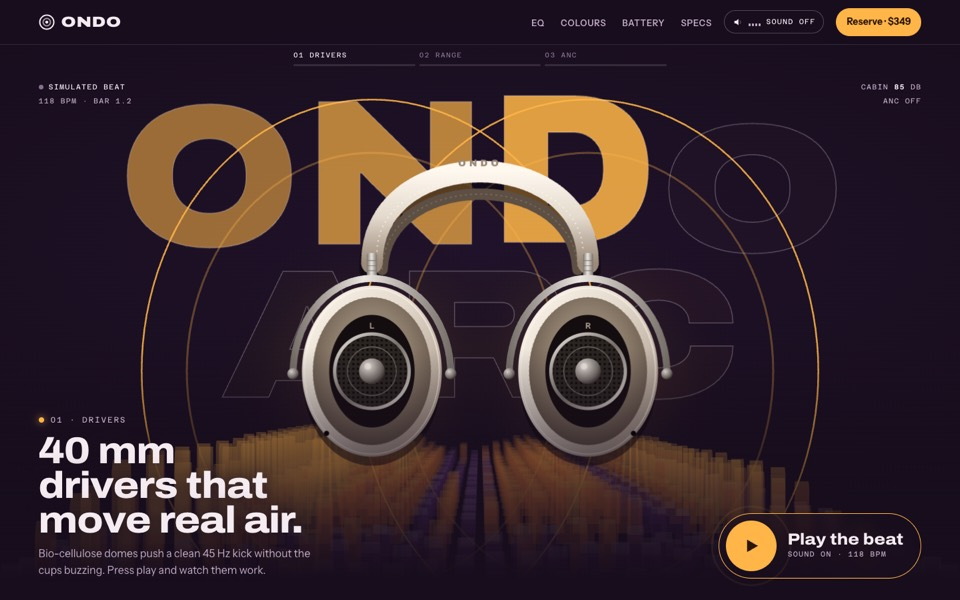
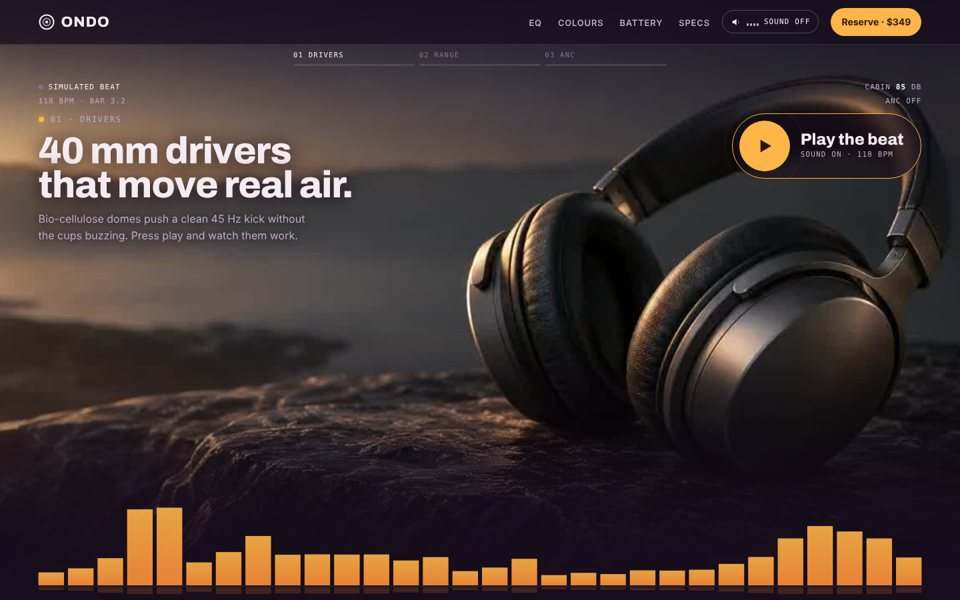
Ondo redesigned v5: the real headphones come apart over a live analyser running along the floor
The drawn headphones, kicking letters and 3D field are gone. The headphones (the brand's
video or photos, or the design's take) open up to the drivers as you scroll, a row of
amber spectrum bars along the bottom moving to the beat (the real audio once played), the
ANC chapter turning them mint and flat. Colourways show a colour card. EQ, battery and
specs stay.

Claude-Session: https://claude.ai/code/session_0133g3z4wqTvWj4LLKkZ92ba

diff --git a/design-packages/design/ondo/template.html b/design-packages/design/ondo/template.html
@@ -1,10 +1,14 @@
 <!doctype html><html><head><meta charset=utf8><meta name=viewport content="width=device-width,initial-scale=1,viewport-fit=cover"><style>:root{color-scheme:light;box-sizing:border-box;padding-top:env(safe-area-inset-top,0px);padding-bottom:env(safe-area-inset-bottom,0px)}html{scroll-padding-top:env(safe-area-inset-top,0px)}body{margin:0;padding:0;font:14px -apple-system,BlinkMacSystemFont,sans-serif;background:#fff;color:#000}img{max-width:100%}[hidden]:not([hidden=until-found i]){display:none!important}</style></head><body>
+<meta name="description" content="{{hero.caps.0.text|attr}}">
+<script>document.documentElement.classList.add('js');setTimeout(function(){if(!window.__ondo)document.documentElement.classList.remove('js')},3500)</script>
 <title>{{business.name}}</title>
 <link rel="preconnect" href="https://fonts.googleapis.com">
 <link rel="preconnect" href="https://fonts.gstatic.com" crossorigin>
 <link rel="stylesheet" href="https://fonts.googleapis.com/css2?family=Archivo:wdth,wght@62..125,300..900&family=Instrument+Sans:wdth,wght@75..100,400..700&family=Azeret+Mono:wght@400;500;600&display=swap">
 <style>
-/* Layout: a listening room at night. Velvet-plum walls, a VU-amber signal colour for the music,
+/* Layout, v5: the real headphones (the brand's video or photos, or the design's own take) come apart as you scroll,
+   a live analyser running along the floor of the screen to the beat. A listening room at night: velvet-plum walls,
+   a VU-amber signal colour for the music,
    a cool mint for the anti-noise wave, coral for noise. The hero is a pinned live analyser:
    the headphones play a synthesized beat, then a 3D spectrum field, then noise cancelling.
    Deliberately one dark look, like a studio with the lights down. */
@@ -60,19 +64,15 @@ h2 { font-size: clamp(40px, 6.2vw, 96px); }
 @media (max-width: 860px) { .nav ul { display: none; } .snd { margin-left: auto; } }
 @media (max-width: 420px) { .snd .lbl { display: none; } .logo { font-size: 20px; } .nav { gap: 10px; } .cta { padding: 9px 13px; font-size: 13px; } }
 
-/* ---------- hero stage ---------- */
-.hero { height: 430vh; position: relative; }
-.stage { position: sticky; top: 0; height: 100svh; overflow: hidden; background:
-  radial-gradient(120% 70% at 50% 40%, var(--room-2) 0%, var(--room) 70%); }
-#fx { position: absolute; inset: 0; width: 100%; height: 100%; display: block; }
-.bigtype { position: absolute; left: 0; right: 0; top: 44%; transform: translateY(-50%); display: flex; justify-content: center; gap: .02em; flex-wrap: wrap; row-gap: 0;
-  font-family: var(--display); font-weight: 900; font-stretch: 125%; font-size: clamp(120px, 19vw, 300px); line-height: .8; letter-spacing: -.01em; color: transparent;
-  -webkit-text-stroke: 1.5px var(--line-2); pointer-events: none; user-select: none; white-space: nowrap; }
-.bigtype span { display: inline-block; transform-origin: 50% 100%; will-change: transform; }
-.bigtype .brk { flex-basis: 100%; height: 0; }
-.hp-wrap { position: absolute; left: 0; top: 0; width: min(104svh * .64, 46vw, 640px); will-change: transform; transform: translate(50vw, 46svh) translate(-50%, -50%); }
-.hp-wrap svg { width: 100%; height: auto; display: block; overflow: visible; }
-
+/* ---------- hero stage: the real headphones come apart, the analyser runs along the floor of the screen ---------- */
+.hero { position: relative; }
+.stage { position: relative; height: min(100svh, 960px); min-height: 640px; overflow: hidden; background: var(--room); }
+.js:not(.flat) .hero { height: 460vh; }
+.js:not(.flat) .stage { position: sticky; top: 0; height: 100svh; min-height: 0; }
+.stage .poster, #film, #fx { position: absolute; inset: 0; width: 100%; height: 100%; display: block; }
+.stage .poster { object-fit: cover; }
+.tint { position: absolute; inset: 0; pointer-events: none; background: linear-gradient(180deg, color-mix(in srgb, var(--room) 70%, transparent) 0%, transparent 30%, transparent 55%, color-mix(in srgb, var(--room) 92%, transparent) 100%); }
+#fx { z-index: 3; pointer-events: none; }
 .rail { position: absolute; z-index: 5; left: 50%; transform: translateX(-50%); top: calc(env(safe-area-inset-top, 0px) + 74px); display: flex; gap: 6px; width: min(560px, calc(100% - 2 * var(--gutter))); }
 .rail div { flex: 1; min-width: 0; display: grid; gap: 6px; font-family: var(--mono); font-size: 10.5px; letter-spacing: .12em; text-transform: uppercase; color: var(--faint); transition: color .3s; }
 .rail div.on { color: var(--ink); }
@@ -87,15 +87,15 @@ h2 { font-size: clamp(40px, 6.2vw, 96px); }
 .hud .live.on i { background: var(--amber); box-shadow: 0 0 10px var(--amber); }
 .hud .db b { color: var(--ink); font-weight: 600; }
 
-.caption { position: absolute; z-index: 6; left: var(--gutter); bottom: calc(env(safe-area-inset-bottom, 0px) + 32px); width: min(470px, calc(100% - 2 * var(--gutter))); }
+.caption { position: absolute; z-index: 6; left: var(--gutter); top: calc(env(safe-area-inset-top, 0px) + 170px); width: min(520px, calc(100% - 2 * var(--gutter))); }
 .cap { display: grid; gap: 12px; transition: opacity .3s var(--out), transform .5s var(--out); }
-.cap + .cap { position: absolute; left: 0; bottom: 0; width: 100%; }
+.cap + .cap { position: absolute; left: 0; top: 0; width: 100%; }
 .cap:not(.on) { opacity: 0; transform: translateY(14px); pointer-events: none; }
 .cap h2 { font-size: clamp(34px, 3.9vw, 60px); text-shadow: 0 2px 30px var(--room); }
 .cap p { color: var(--dim); max-width: 40ch; font-size: 16px; text-shadow: 0 1px 14px var(--room); }
-.scrim { position: absolute; z-index: 4; left: 0; right: 0; bottom: 0; height: 42%; pointer-events: none; background: linear-gradient(to top, var(--room) 8%, color-mix(in srgb, var(--room) 70%, transparent) 45%, transparent); }
+.scrim { position: absolute; z-index: 2; left: 0; right: 0; bottom: 0; height: 30%; pointer-events: none; background: linear-gradient(to top, var(--room) 8%, color-mix(in srgb, var(--room) 70%, transparent) 45%, transparent); }
 
-.play { position: absolute; z-index: 7; right: var(--gutter); bottom: calc(env(safe-area-inset-bottom, 0px) + 32px); display: flex; align-items: center; gap: 16px; padding: 10px 26px 10px 10px; border-radius: 999px; cursor: pointer;
+.play { position: absolute; z-index: 7; right: var(--gutter); top: calc(env(safe-area-inset-top, 0px) + 170px); display: flex; align-items: center; gap: 16px; padding: 10px 26px 10px 10px; border-radius: 999px; cursor: pointer;
   background: color-mix(in srgb, var(--room) 55%, transparent); border: 1.5px solid var(--amber); backdrop-filter: blur(10px); -webkit-backdrop-filter: blur(10px); text-align: left; transition: transform .4s var(--spring); }
 .play:hover { transform: scale(1.03); }
 .play .disc { position: relative; width: 76px; height: 76px; border-radius: 50%; background: var(--amber); display: grid; place-items: center; flex: none; }
@@ -111,7 +111,7 @@ h2 { font-size: clamp(40px, 6.2vw, 96px); }
 .play .t span { font-family: var(--mono); font-size: 11px; letter-spacing: .1em; text-transform: uppercase; color: var(--dim); }
 
 /* ANC panel inside the stage */
-.anc { position: absolute; z-index: 5; left: 52%; right: var(--gutter); top: 25%; bottom: 23%; display: grid; grid-template-rows: auto 1fr 1fr 1fr auto; gap: 8px; padding: 18px 20px; border: 1px solid var(--line-2); border-radius: 18px;
+.anc { position: absolute; z-index: 5; left: 58%; right: var(--gutter); top: 30%; bottom: 30%; display: grid; grid-template-rows: auto 1fr 1fr 1fr auto; gap: 8px; padding: 18px 20px; border: 1px solid var(--line-2); border-radius: 18px;
   background: color-mix(in srgb, var(--room) 72%, transparent); backdrop-filter: blur(8px); -webkit-backdrop-filter: blur(8px); opacity: 0; transform: translateY(30px); pointer-events: none; }
 .anc .top { display: flex; justify-content: space-between; align-items: baseline; gap: 10px; font-family: var(--mono); font-size: 11px; letter-spacing: .12em; text-transform: uppercase; color: var(--dim); }
 .anc .top b { color: var(--anti); font-weight: 600; }
@@ -133,24 +133,30 @@ h2 { font-size: clamp(40px, 6.2vw, 96px); }
 .leds .scale { display: flex; justify-content: space-between; font-family: var(--mono); font-size: 10px; color: var(--faint); }
 
 @media (max-width: 760px) {
-  .hp-wrap { width: min(86vw, 52svh); }
-  .bigtype { top: 37%; font-size: 31vw; line-height: .78; width: 100%; }
   .rail { top: calc(env(safe-area-inset-top, 0px) + 66px); }
   .hud { top: calc(env(safe-area-inset-top, 0px) + 104px); font-size: 10px; }
-  .caption { bottom: calc(env(safe-area-inset-bottom, 0px) + 112px); }
+  .caption { top: auto; bottom: calc(env(safe-area-inset-bottom, 0px) + 150px); }
   .cap { gap: 8px; }
   .cap h2 { font-size: clamp(30px, 8.6vw, 40px); }
   .cap p { font-size: 15px; }
-  .play { left: var(--gutter); right: var(--gutter); bottom: calc(env(safe-area-inset-bottom, 0px) + 20px); padding: 8px 18px 8px 8px; gap: 14px; }
+  .play { left: var(--gutter); right: var(--gutter); top: auto; bottom: calc(env(safe-area-inset-bottom, 0px) + 20px); padding: 8px 18px 8px 8px; gap: 14px; }
   .play .disc { width: 64px; height: 64px; }
   .play .t b { font-size: 21px; }
-  .anc { left: var(--gutter); right: var(--gutter); top: 33%; bottom: auto; height: 38%; padding: 12px 14px; gap: 4px; grid-template-rows: auto 1fr 1fr 1fr auto; }
+  .anc { left: var(--gutter); right: var(--gutter); top: 18%; bottom: auto; height: 34%; padding: 12px 14px; gap: 4px; grid-template-rows: auto 1fr 1fr 1fr auto; }
   .lane { min-height: 0; font-size: 10px; }
   .meter { gap: 12px; padding-top: 6px; }
   .meter .num { font-size: 40px; }
   .leds .row { height: 12px; gap: 2px; }
   .stage[data-stage="2"] .cap.on p { display: none; }
 }
+
+.chipcard { position: relative; z-index: 2; display: grid; grid-template-columns: repeat(4, minmax(0, 1fr)); width: min(100%, 620px); aspect-ratio: 4 / 3; margin: auto; box-shadow: 0 30px 60px -30px rgba(0,0,0,.6), 0 0 0 1px var(--line); border-radius: 10px; overflow: hidden; }
+.chipcard div { background: var(--c); display: flex; flex-direction: column; justify-content: flex-end; gap: 3px; padding: 12px; font-family: var(--mono); font-size: 10.5px; letter-spacing: .06em; text-transform: uppercase; color: var(--t); transition: background-color .6s var(--out); }
+.chipcard div b { font-family: var(--display); font-size: 17px; letter-spacing: 0; text-transform: none; }
+.split .w { display: inline-block; overflow: hidden; vertical-align: top; padding-bottom: .06em; }
+.split .w > i { display: inline-block; font-style: normal; animation: rise .9s var(--out) both; }
+@keyframes rise { from { transform: translateY(108%); } }
+.js:not(.flat) [data-rv]:not(.in) { opacity: 0; transform: translateY(26px); }
 
 /* ---------- shared section ---------- */
 .sec { position: relative; padding-block: clamp(84px, 11vw, 160px); padding-inline: var(--gutter); border-top: 1px solid var(--line); }
@@ -294,10 +300,11 @@ footer { padding: clamp(60px, 8vw, 110px) var(--gutter) calc(env(safe-area-inset
 <main>
 <section class="hero" id="top" aria-label="{{$.fullName|attr}} live analyser">
   <div class="stage" id="stage" data-stage="0">
+{{#if $.film.poster}}    <img class="poster" src="{{$.film.poster|attr}}" alt="" aria-hidden="true">
+{{/if}}    <canvas id="film" role="img" aria-label="{{$.heroAlt|attr}}"></canvas>
+    <div class="tint" aria-hidden="true"></div>
     <canvas id="fx" aria-hidden="true"></canvas>
     <h1 class="sr">{{$.fullName}} {{product.kind}}</h1>
-    <div class="bigtype" id="bigtype" aria-hidden="true">{{$.bigtype|raw}}</div>
-    <div class="hp-wrap" id="hpWrap"></div>
 
     <div class="rail" aria-hidden="true">
       <div class="on"><span>01 Drivers</span><i><b></b></i></div>
@@ -391,8 +398,7 @@ footer { padding: clamp(60px, 8vw, 110px) var(--gutter) calc(env(safe-area-inset
 <section class="sec cw" id="colours" aria-labelledby="cwTitle">
   <div class="cw-name" id="cwName" aria-hidden="true">{{colourways.0.name|upper}}</div>
   <div class="cw-stage" id="cwStage">
-    <div class="cw-plinth"></div>
-    <div class="cw-hp" id="cwHp"></div>
+    <div class="chipcard" id="chipcard" role="img" aria-label="The colours of {{colourways.0.name|attr}}"></div>
   </div>
   <div class="cw-side">
     <div class="sec-head">
@@ -536,12 +542,7 @@ footer { padding: clamp(60px, 8vw, 110px) var(--gutter) calc(env(safe-area-inset
     ${cup(p, 150, 'L')}${cup(p, 490, 'R')}
   </svg>`;
   }
-  const hpWrap = $('#hpWrap');
-  hpWrap.innerHTML = hpSVG('h', {{$.heroAlt|js}});
-  $('#cwHp').innerHTML = hpSVG('c', {{$.cwAlt|js}});
-  const heroSVG = hpWrap.querySelector('svg');
-  const cups = [...hpWrap.querySelectorAll('.cup')], drvs = [...hpWrap.querySelectorAll('.drv')], leds = [...hpWrap.querySelectorAll('.led')];
-  const CUPX = [150, 490], CUPY = 392;
+  /* (the hero is the film now; the drawing is gone) */
 
   /* ================= colourways ================= */
   const COLOURS = [
@@ -556,9 +557,14 @@ footer { padding: clamp(60px, 8vw, 110px) var(--gutter) calc(env(safe-area-inset
     swWrap.appendChild(b);
     const o = document.createElement('option'); o.value = c.id; o.textContent = c.name; rsColour.appendChild(o);
   });
+  const chipcard = $('#chipcard'), PARTS = [['shell', 'Shell'], ['hi', 'Shell, light'], ['lo', 'Shell, deep'], ['pad', 'Cushion'], ['padHi', 'Cushion, light'], ['metal', 'Metal'], ['metalLo', 'Metal, deep'], ['label', 'Label']];
+  const inkOn = h => { const m = /^#?([0-9a-f]{6})$/i.exec(h || ''); if (!m) return '#f5ecf2'; const n = parseInt(m[1], 16), l = (.2126 * (n >> 16) + .7152 * (n >> 8 & 255) + .0722 * (n & 255)) / 255; return l > .55 ? '#170d1c' : '#f5ecf2'; };
+  PARTS.forEach(([k, label]) => { const d = document.createElement('div'); d.dataset.k = k; d.innerHTML = `<b>${label}</b><span></span>`; chipcard.appendChild(d); });
   function setColour(i) {
     const c = COLOURS[i], root = document.documentElement.style;
     for (const k in c.v) root.setProperty('--hp-' + k, c.v[k]);
+    chipcard.querySelectorAll('div').forEach(d => { const v = c.v[d.dataset.k]; d.style.setProperty('--c', v); d.style.setProperty('--t', inkOn(v)); d.querySelector('span').textContent = String(v || '').toUpperCase(); });
+    chipcard.setAttribute('aria-label', 'The colours of ' + c.name);
     $$('.sw').forEach((b, j) => b.setAttribute('aria-checked', j === i ? 'true' : 'false'));
     $('#cwName').textContent = c.name.toUpperCase();
     rsColour.value = c.id;
@@ -571,17 +577,6 @@ footer { padding: clamp(60px, 8vw, 110px) var(--gutter) calc(env(safe-area-inset
     setColour(n); $$('.sw')[n].focus();
   });
   rsColour.addEventListener('change', () => setColour(COLOURS.findIndex(c => c.id === rsColour.value)));
-  // gentle 3D tilt on the colourway stage
-  const cwStage = $('#cwStage'), cwHp = $('#cwHp');
-  if (!RM) {
-    cwStage.addEventListener('pointermove', e => {
-      const r = cwStage.getBoundingClientRect();
-      const x = (e.clientX - r.left) / r.width - .5, y = (e.clientY - r.top) / r.height - .5;
-      cwHp.style.transform = `rotateY(${x * 22}deg) rotateX(${-y * 14}deg)`;
-    });
-    cwStage.addEventListener('pointerleave', () => cwHp.style.transform = '');
-  }
-
   /* ================= EQ state ================= */
   const BANDS = [
     { name: 'Bass', type: 'lowshelf', f: 110, g: 3, min: 40, max: 250 },
@@ -816,8 +811,14 @@ footer { padding: clamp(60px, 8vw, 110px) var(--gutter) calc(env(safe-area-inset
   const specAt = (f, j) => (AU.on ? liveAt(f) : simAt(f, j));
 
   /* ================= hero stage ================= */
+  const STILL = /[?&]still\b/.test(location.search), FLAT = RM || STILL;
+  if (FLAT) document.documentElement.classList.add('flat');
+  {{$.film.runtime|raw}}
+  const film = SRFilm($('#film'), {{$.film.json|raw}}, { flat: FLAT, fy: .45 });
+  let inFrame = false; try { inFrame = window.self !== window.top; } catch (e) { inFrame = true; }
+  let AUTO = inFrame && scrollY < 1 && !FLAT;
+  if (AUTO) addEventListener('scroll', () => { if (AUTO && scrollY >= 1) { AUTO = false; film.poke(); } }, { passive: true });
   const stage = $('#stage'), hero = $('#top'), fx = $('#fx'), g = fx.getContext('2d');
-  const letters = $$('#bigtype span');
   const caps = $$('.cap'), railDivs = $$('.rail > div'), railBars = $$('.rail i b');
   const ancEl = $('#anc'), lanes = $$('.lane'), ledRow = $('#leds');
   for (let i = 0; i < 24; i++) { const li = document.createElement('i'); const db = 20 + (i + .5) * (80 / 24); if (db > 70) li.className = 'hot'; else if (db > 45) li.className = 'mid'; ledRow.appendChild(li); }
@@ -834,7 +835,7 @@ footer { padding: clamp(60px, 8vw, 110px) var(--gutter) calc(env(safe-area-inset
   function resize() {
     DPR = Math.min(devicePixelRatio || 1, matchMedia('(pointer:coarse)').matches?1.5:2);
     const r = stage.getBoundingClientRect(); W = r.width; H = r.height;
-    fx.width = Math.round(W * DPR); fx.height = Math.round(H * DPR);
+    fx.width = Math.round(W * DPR); fx.height = Math.round(H * DPR); film.size();
     eqResize();
   }
   addEventListener('resize', resize);
@@ -954,6 +955,19 @@ footer { padding: clamp(60px, 8vw, 110px) var(--gutter) calc(env(safe-area-inset
     });
   }
 
+  function drawBars(level, ancIn, cancel) {
+    const n = COLS, gap = W < 760 ? 3 : 6, x0 = W < 760 ? 16 : Math.max(16, W * .04), bw = (W - 2 * x0 - gap * (n - 1)) / n, base = H - (W < 760 ? 12 : 22), maxH = H * (W < 760 ? .14 : .22);
+    const squash = 1 - cancel * .85 * ancIn;
+    for (let c = 0; c < n; c++) {
+      const v = cur[c] * squash, h = Math.max(3, v * maxH), x = x0 + c * (bw + gap);
+      const gr = g.createLinearGradient(0, base - h, 0, base);
+      gr.addColorStop(0, ancIn > .5 ? C.anti : C.amber); gr.addColorStop(1, ancIn > .5 ? 'rgba(127,227,208,.25)' : C.amber2);
+      g.fillStyle = gr; g.globalAlpha = .9; g.fillRect(x, base - h, bw, h);
+      g.globalAlpha = .18; g.fillRect(x, base + 3, bw, Math.min(10, h * .2));
+    }
+    g.globalAlpha = 1;
+    g.fillStyle = C.line; g.fillRect(x0, base + 1, W - 2 * x0, 1);
+  }
   function setStage(n) {
     if (n === stageNo) return; stageNo = n;
     stage.dataset.stage = n;
@@ -1000,25 +1014,9 @@ footer { padding: clamp(60px, 8vw, 110px) var(--gutter) calc(env(safe-area-inset
     sndBars.forEach((b, i) => b.style.height = (AU.on ? 3 + cur[i * 7 + 1] * 9 : 4) + 'px');
 
     if (heroVisible) {
-      const L = W < 760 ? 'm' : 'd';
-      const [kx, ky, ks] = kfAt(KF[L], p), F = kfAt(FF[L], p);
       const ancIn = ss(.57, .66, p), cancel = ss(.68, .94, p);
       const level = RM ? .2 : clamp(Math.max(vis.kick * .85, lowE * .9));
-      const breathe = RM ? 0 : Math.sin(nowS * 1.3) * .01;
-      hpWrap.style.transform = `translate(${kx * W}px, ${ky * H}px) translate(-50%, -50%) scale(${ks * (1 + breathe + level * .025)})`;
-      // ear cups pump with the low end, drivers push out harder
-      cups.forEach((cp, i) => { const s = 1 + level * .045; cp.setAttribute('transform', `translate(${CUPX[i]} ${CUPY}) scale(${s}) translate(${-CUPX[i]} ${-CUPY})`); });
-      drvs.forEach((d, i) => { const s = 1 + level * .11; d.setAttribute('transform', `translate(${CUPX[i]} ${CUPY}) scale(${s}) translate(${-CUPX[i]} ${-CUPY})`); });
-      leds.forEach(l => l.style.fill = ancIn > .5 ? C.anti : '');
-      // kicking type
-      letters.forEach((el, i) => {
-        if (RM) return;
-        let a = nowS - vis.kickAt - i * .024; if (a < 0) a += BEAT;
-        const e = Math.exp(-a / .11);
-        el.style.transform = `translateY(${-e * 5}%) scale(${1 - e * .03}, ${1 + e * .17})`;
-        el.style.color = `color-mix(in srgb, ${C.amber} ${Math.round(e * 88 * (1 - ancIn * .7))}%, transparent)`;
-      });
-      $('#bigtype').style.opacity = 1 - ancIn * .55 - eio(seg(p, .27, .42)) * .25;
+      film.draw(FLAT ? 1 : AUTO ? (nowS / Math.max(4, film.seconds())) % 1 : p, nowS);
       // stage + rail
       setStage(p < .3 ? 0 : p < .58 ? 1 : 2);
       railBars[0].style.width = seg(p, 0, .3) * 100 + '%';
@@ -1041,13 +1039,10 @@ footer { padding: clamp(60px, 8vw, 110px) var(--gutter) calc(env(safe-area-inset
       }
       if (AU.on && AU.noiseGain) AU.noiseGain.gain.setTargetAtTime(ancIn * (1 - cancel) * .42, AU.ctx.currentTime, .06);
 
-      // draw
+      // draw: the analyser along the floor of the screen, then the anti-noise lanes
       g.setTransform(DPR, 0, 0, DPR, 0, 0);
       g.clearRect(0, 0, W, H);
-      const dp = driverPos();
-      drawGlow(dp, level * (1 - ancIn * .5));
-      drawField(F, nowS);
-      drawRings(nowS, dp, ancIn);
+      drawBars(level, ancIn, cancel);
       drawANC(nowS, ancIn, cancel);
     } else if (AU.on && AU.noiseGain) AU.noiseGain.gain.setTargetAtTime(0, AU.ctx.currentTime, .06);
     requestAnimationFrame(frame);
@@ -1191,6 +1186,7 @@ footer { padding: clamp(60px, 8vw, 110px) var(--gutter) calc(env(safe-area-inset
 
   /* ================= boot ================= */
   setColour(0); calcBattery(); resize(); syncEQ(); syncSoundUI();
+  window.__ondo = 1;
   // prefill the spectrum history so the field is never empty in the first frame
   for (let r = 0; r < ROWS; r++) { fireVis(r * 2, 0); for (let c = 0; c < COLS; c++) hist[r][c] = simAt(colF[c], Math.random()); }
   requestAnimationFrame(frame);

diff --git a/design-packages/design/ondo/hooks.js b/design-packages/design/ondo/hooks.js
@@ -1,6 +1,7 @@
 // ONDO's design-specific build logic: the colourways as the page script's COLOURS, the big title letters, the spec
 // tables, prices and labels drawn on the headphones, and the rules the schema can't express. Runs at build time only.
 'use strict';
+const film = require('../../engine/film');
 const { FILTERS } = require('../../engine/template');
 const { rgbHsl, hexRgb } = require('../../engine/colour');
 const KEYS = [['shell', 'shell'], ['hi', 'hi'], ['lo', 'lo'], ['pad', 'pad'], ['padHi', "'pad-hi'"], ['metal', 'metal'], ['metalLo', "'metal-lo'"], ['label', 'label']];
@@ -12,6 +13,7 @@ function derive(c) {
   // non-breaking spaces between a number and its unit, and before the last word (as the original writes it)
   const nb = (s) => esc(s).replace(/(\d) (?=[A-Za-zµΩ°%])/g, '$1&nbsp;').replace(/ (\S+)$/, '&nbsp;$1');
   return {
+    film: film.derive(c, null, [255, 181, 71]),
     fullName: full,
     price: c.locale.currency + c.product.price,
     bigtype: `${letters(c.brand.name)}<span class="brk"></span>${letters(c.product.name)}`,
